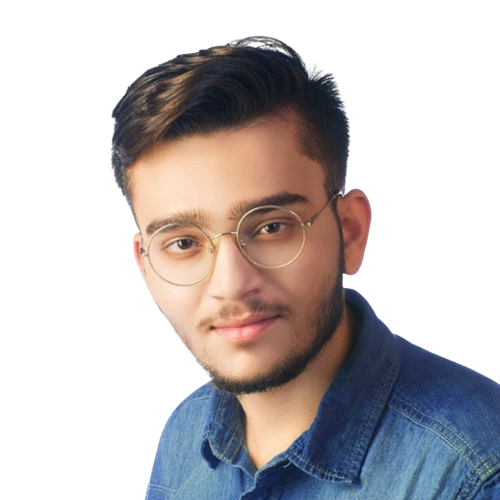
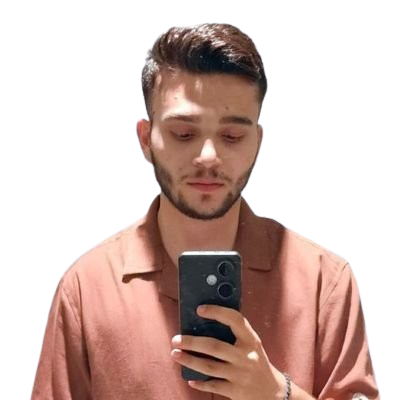
updated pic and experience

diff --git a/src/info/Info.js b/src/info/Info.js
@@ -69,53 +69,53 @@ export const info = {
     // Feel free to remove any of these that you don't have. I'll write an FAQ on how to add new ones later, let me know if you have a request for an icon!
     // Just change the links so that they lead to your social profiles.
   ],
-  bio: "Hey, I'm Sudhanshu. I'm all about making tech work for people, not the other way around. With a CompSci degree from SRMIST under my belt, I've jumped into the world of coding, always looking for ways to simplify complex tech problems. My journey has been about more than just coding; it's been about connecting with others, understanding what they need, and delivering it in the simplest way possible. I thrive on teamwork and am always eager to learn and grow.",
+  bio: "Hey, I'm Sudhanshu, a Software Developer at Dayforce with a Computer Science degree from SRMIST. I'm passionate about making tech work for people, not the other way around. Whether I'm coding, collaborating with my team, or tackling complex problems, I'm always looking for ways to simplify and innovate. My journey in tech has taught me that understanding people is just as important as understanding code. I thrive on teamwork, love learning new things, and am committed to creating user-friendly solutions that make a real difference.",
   skills: {
     proficientWith: [
       "python",
+      "java",
       "typescript",
       "reactjs",
       "nodejs",
       "git",
-      "mysql",
+      "sql",
       "tailwindcss",
     ],
-    exposedTo: ["aws", "docker", "mongodb", "linux"],
+    exposedTo: ["kotlin", ".net", "c#", "aws", "docker", "linux"],
   },
   experiences: [
     {
-      role: "Research Intern",
-      company: "Samsung R&D Institute, Bangalore",
+      role: "Software Developer",
+      company: "Dayforce",
       achievements: [
-        "Led the team in converting the GSM Test Automation Framework from Tool Command Language (Tcl) to Python",
-        "Enhanced readability and modernized the framework",
-        "Leveraged Python for improved efficiency",
-      ],
-    },
-    {
-      role: "Remote Software Developer",
-      company: "Yanolja Co. Ltd., Seoul",
-      achievements: [
-        "Enhanced a React.js GUI tool with React Flow",
-        "Implemented BFS and cycle detection for dynamic node name suggestions",
-        "Collaborated in an agile team for timely feature delivery",
+        "Completed comprehensive technical training in Java, .NET, TypeScript, React.js, Angular, PL/SQL, and Oracle SQL DB, building a strong foundation in modern web and software development",
+        "Led a team of 10 developers in a capstone project, developing a full-stack course management system using ReactJS/MUI, .NET Core, and Microsoft SQL Server, featuring course browsing, purchasing, and content administration",
+        "Implemented an in-house one-click CAPTCHA solution for the Employee Self-Service (ESS) India product, utilizing Java for backend logic and Rust compiled to WebAssembly for frontend performance",
+        "Collaborated to identify and remediate 160 SQL injection vulnerabilities in the ESS Java codebase, and developed a release note upload/download project for the Operations Excellence team",
       ],
     },
     {
       role: "Remote Data Engineer",
       company: "Freelance Project via Upwork",
       achievements: [
-        "Developed a Python/Scrapy script for data extraction from bjs.com",
-        "Integrated with Shopify API for real-time product uploads",
+        "Engineered a high-performance Python/Scrapy web scraping script to efficiently extract product data from bjs.com and samsclub.com for an American client, leveraging REST APIs and bypassing JavaScript rendering. Implemented concurrent requests, enhancing data extraction speed by 300% compared to traditional sequential methods",
+        "Implemented custom CSV/JSON export functionality and integrated with Shopify's API to enable real-time product data uploads to client's e-commerce store during web scraping operations, streamlining product catalog management",
       ],
     },
     {
-      role: "Software Developer Intern",
-      company: "Dayforce",
+      role: "Remote Software Developer",
+      company: "Yanolja Co. Ltd.",
       achievements: [
-        "Completed training in Java, .NET, JS, TS, React, Angular, and PL/SQL",
-        "Developed a capstone project integrating React, .NET Core, and MS SQL Server",
-        "Currently enhancing Excelity ESS functionalities using Java Servlets and JSP",
+        "Refined a React.js GUI tool by devising and implementing a node naming feature using BFS and cycle detection in React Flow, enhancing the graph's functionality by allowing node names to be auto-suggested from a list of ancestor nodes",
+        "Accelerated feature delivery by collaborating in an agile team, contributing to a 15% improvement in project timelines",
+      ],
+    },
+    {
+      role: "Research Intern",
+      company: "Samsung R&D Institute",
+      achievements: [
+        "Led a team of 4 students in converting the GSM Test Automation Framework from Tool Command Language (Tcl) to Python, enhancing readability and modernizing the framework",
+        "Refactored and improved several test scripts and core framework components which cut down the codebase size by 25%",
       ],
     },
   ],
